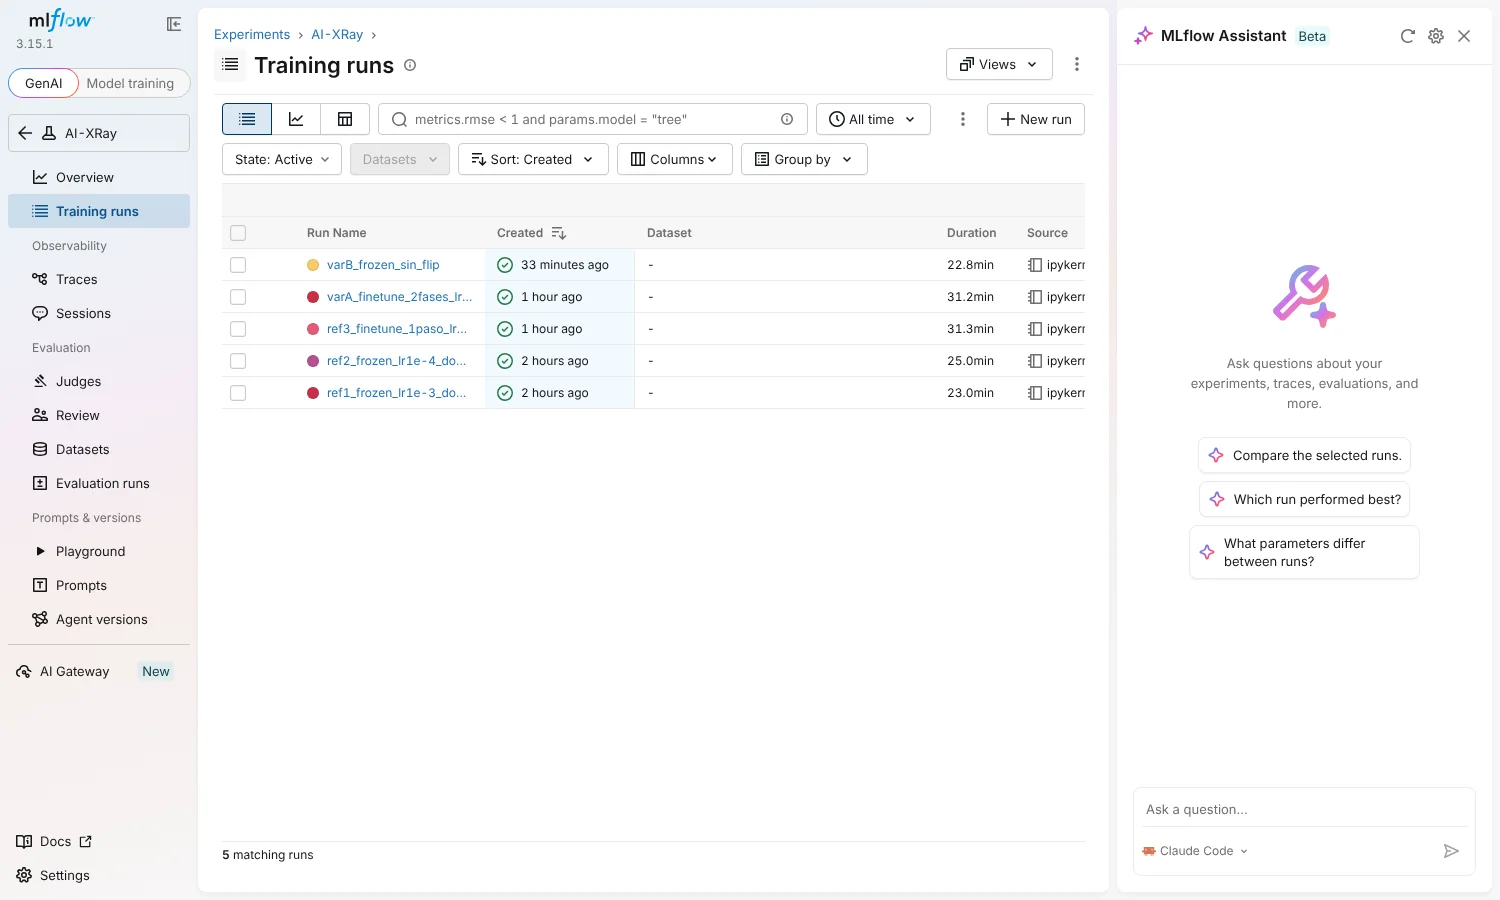
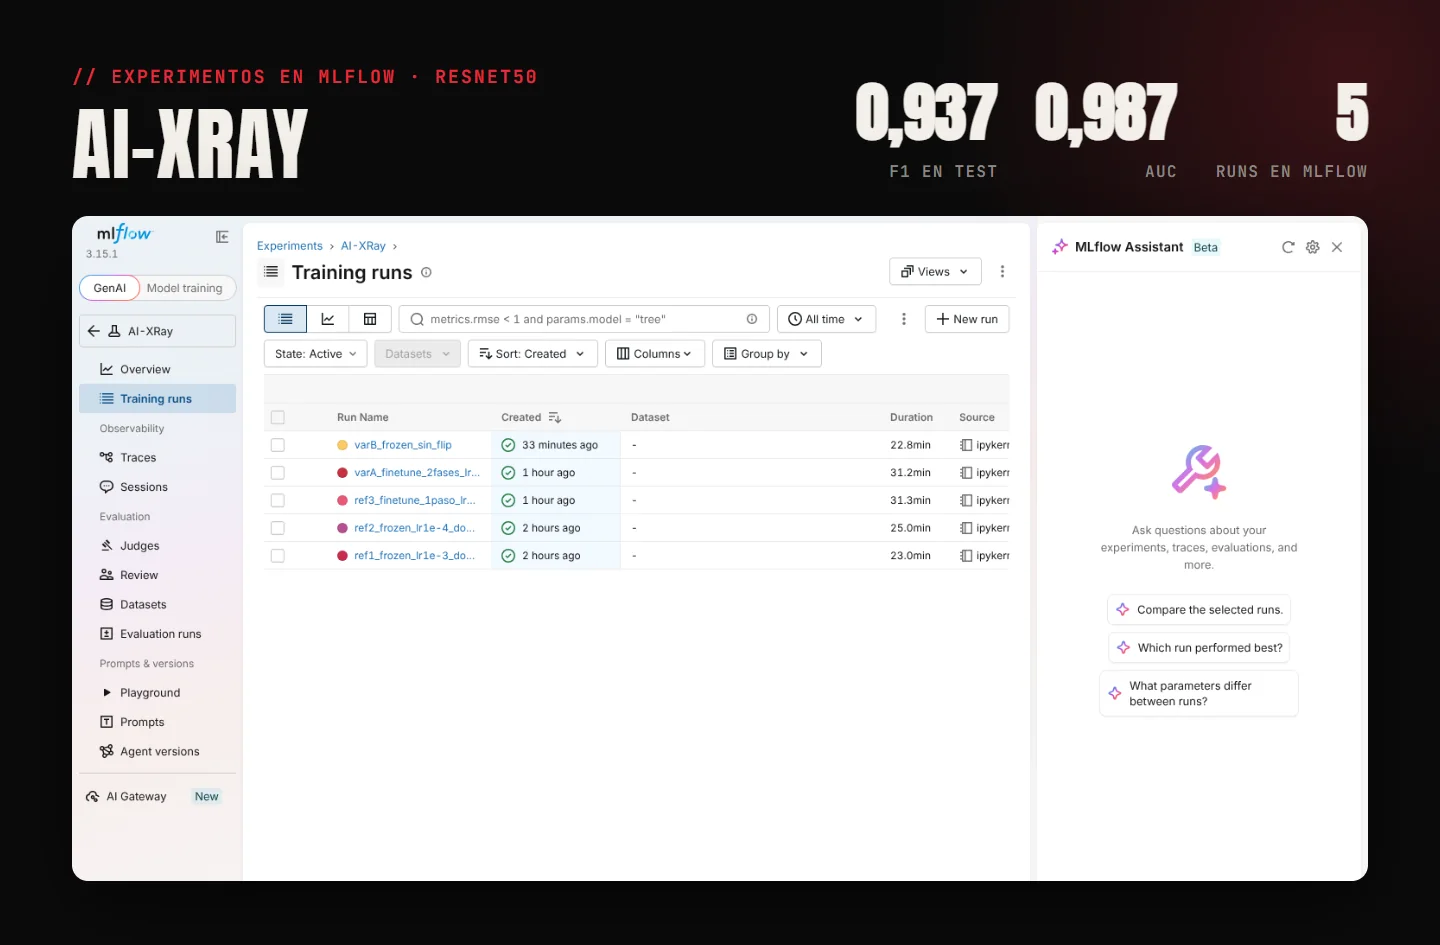
Mismo diseño de portada en todos los proyectos
AgroConecta, AI-XRay (MLflow), Dashboard SGD, Saber Pro y Emociones en perros
usan ahora el marco oscuro con título y cifras, igual que el resto.

diff --git a/projects-data.js b/projects-data.js
@@ -70,7 +70,7 @@ const DEV_PROJECTS = [
     desc: "En equipo de 4: SPA en JavaScript con router propio que consume una API REST en Spring Boot con JWT y roles (administrador y cliente). Catálogo, carrito, pedidos y panel admin, con demo funcional sin servidor.",
     tags: ["JavaScript · SPA", "Java · Spring Boot", "PostgreSQL · JWT", "Bootstrap 5"],
     glyph: "{}",
-    image: "AgroConecta.webp",
+    image: "AgroConecta-cover.webp",
     demo: "https://cesarespa.github.io/AgroConecta/",
     repo: "https://github.com/CesarEspa/AgroConecta",
     status: "live",
@@ -104,7 +104,7 @@ const ANALYST_PROJECTS = [
     desc: "Seguimiento de un programa nacional: 1.895 sedes en 33 departamentos y 34.110 sesiones, con modelo estrella y 53 medidas DAX. Claude conectado a Power BI vía MCP, con validación humana.",
     tags: ["Power BI · DAX", "Modelo estrella", "Python", "Claude · MCP"],
     glyph: "⌬",
-    image: "DatosQueEnseñan.png",
+    image: "DashboardSGD.webp",
     demo: "https://app.powerbi.com/view?r=eyJrIjoiZjMxNzkzMjQtODEyMS00Mzk3LWFjOWUtM2IzMjAwMzlmYTIyIiwidCI6IjY0ZWJjNzhlLTBhNWYtNDRlMS1hNTA0LTU3MTNlZmY2NGIzMyIsImMiOjR9",
     repo: null,
     status: "live",
@@ -130,7 +130,7 @@ const ANALYST_PROJECTS = [
     desc: "Limpieza y transformación de 1.22 millones de registros con Python y Pandas, y un dashboard en Power BI para comparar el rendimiento por región, institución y área.",
     tags: ["Python · Pandas", "Power BI", "EDA"],
     glyph: "π",
-    image: "ICFES.png",
+    image: "SaberPro.webp",
     demo: "https://app.powerbi.com/view?r=eyJrIjoiNWFjYTRhMjAtOGNjOC00YjIxLTgxNjktYjY1YWMzMDRkODFmIiwidCI6IjY0ZWJjNzhlLTBhNWYtNDRlMS1hNTA0LTU3MTNlZmY2NGIzMyIsImMiOjR9",
     repo: null,
     status: "live",
@@ -156,7 +156,7 @@ const ANALYST_PROJECTS = [
     desc: "CNN entrenada con datos de Kaggle que detecta la emoción de un perro directamente en el navegador, con TensorFlow.js y COCO-SSD.",
     tags: ["Python · Keras", "TensorFlow.js", "CNN", "COCO-SSD"],
     glyph: "⬡",
-    image: "DogEmotion.png",
+    image: "DogEmotion.webp",
     demo: "https://cesarespa.github.io/DogEmotion-CNN/",
     repo: "https://github.com/CesarEspa/DogEmotion-CNN",
     status: "live",
